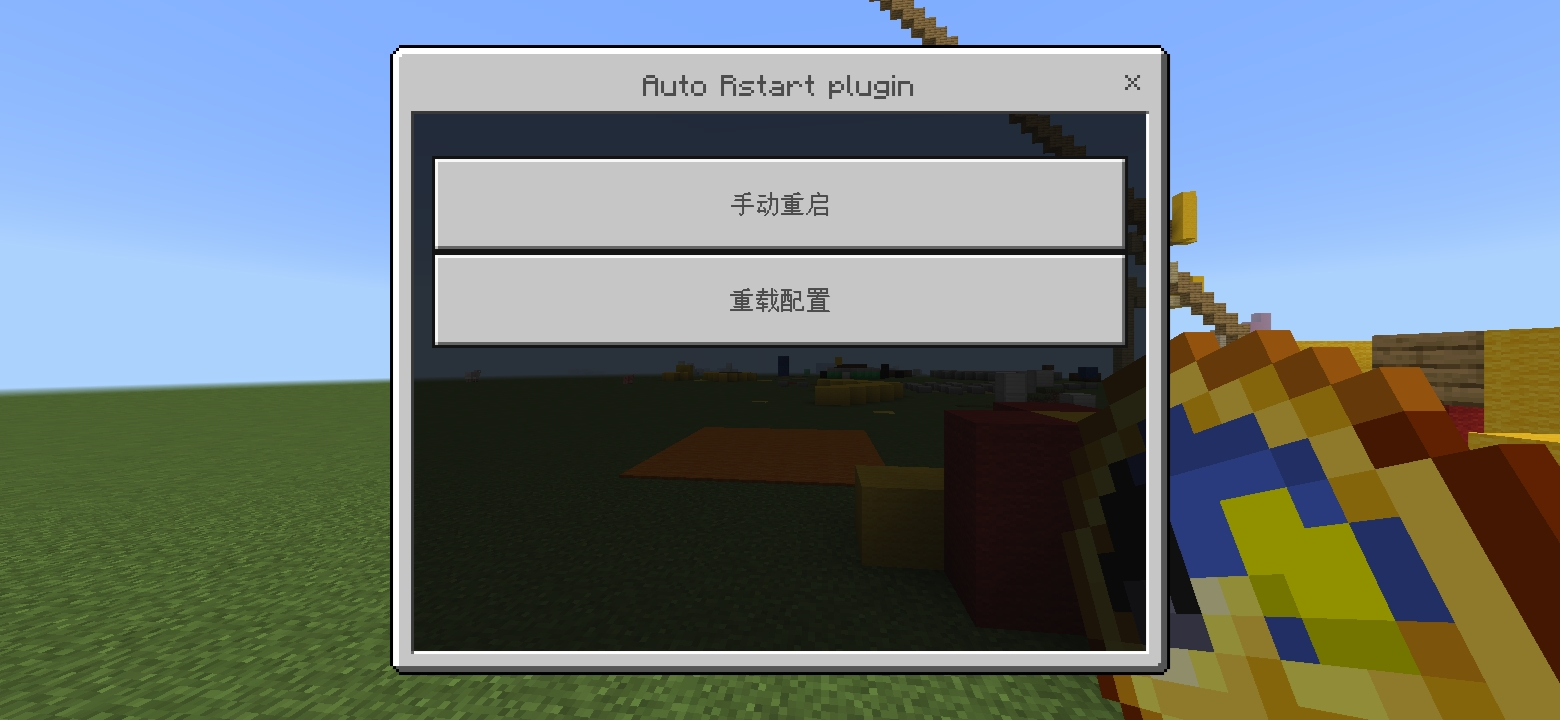
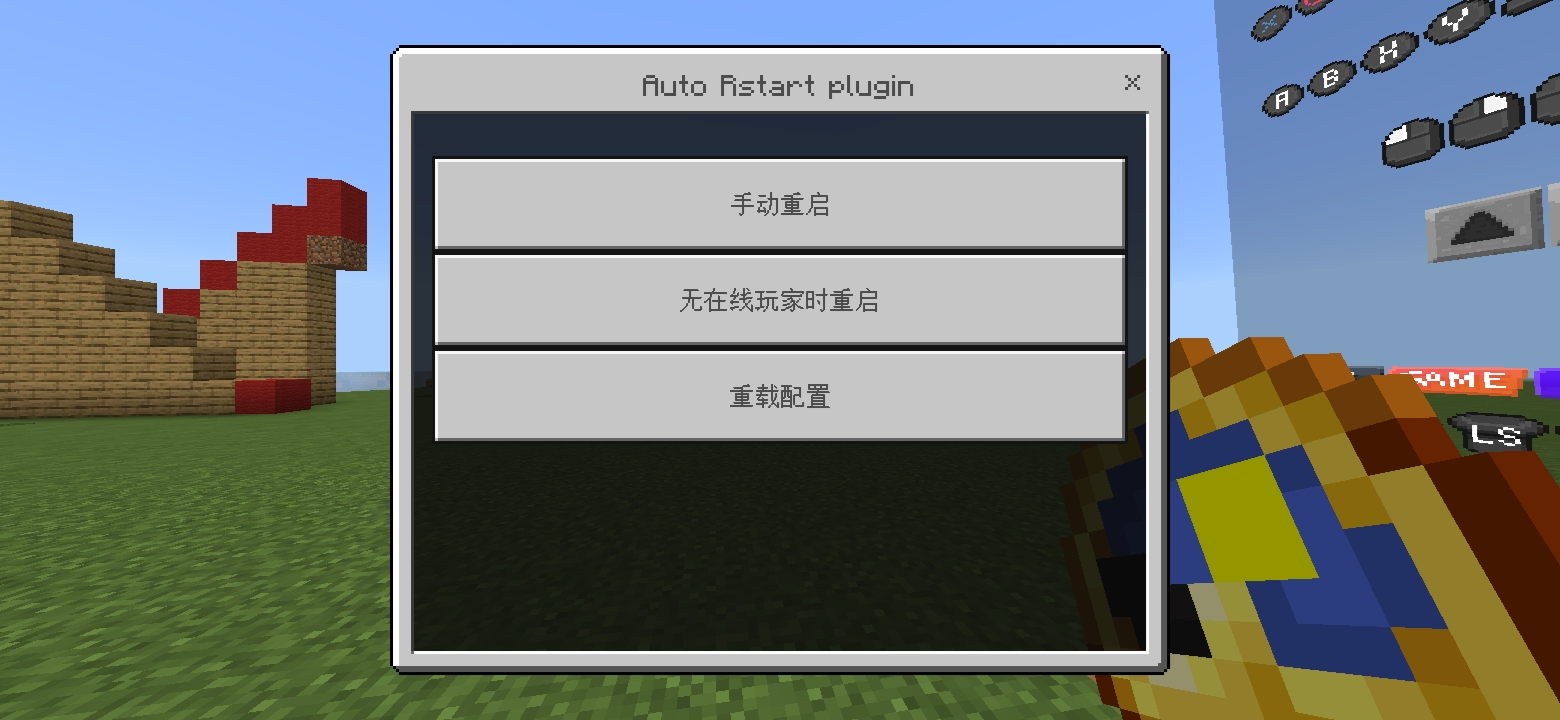
调整代码

diff --git a/src/main/java/cn/stevei5mc/autorestart/command/sub/RunRestartTask.java b/src/main/java/cn/stevei5mc/autorestart/command/sub/RunRestartTask.java
@@ -6,6 +6,7 @@ import cn.nukkit.command.data.CommandParamType;
 import cn.stevei5mc.autorestart.command.BaseSubCommand;
 import cn.nukkit.Player;
 import cn.stevei5mc.autorestart.Utils;
+import java.util.*;
 
 public class RunRestartTask extends BaseSubCommand {
 
@@ -30,14 +31,14 @@ public class RunRestartTask extends BaseSubCommand {
             switch (s) {
                 case "manual":
                     int i = Utils.getRestartTipTime();
-                    Utils.runRestartTask("seconds",i,2,20);
+                    Utils.runRestartTask(i,2);
                     main.getLogger().info((main.getLang().translateString("restart_task_restart", i, main.getLang().translateString("time_unit_seconds"))));
                     for (Player player : main.getServer().getOnlinePlayers().values()) {
                         player.sendMessage(main.getLang(player).translateString("restart_task_restart", i, main.getLang(player).translateString("time_unit_seconds")));
                     }
                     return true;
                 case "no-players":  
-                    Utils.runRestartTask(3,100);
+                    Utils.runRestartTask(3);
                     main.getLogger().info((main.getLang().translateString("restart_task_run",main.getLang().translateString("restart_task_type_no_player"))));
                     for (Player player : main.getServer().getOnlinePlayers().values()) {
                         player.sendMessage(main.getLang(player).translateString("restart_task_run",main.getLang(player).translateString("restart_task_type_no_player")));
@@ -54,7 +55,7 @@ public class RunRestartTask extends BaseSubCommand {
     @Override
     public CommandParameter[] getParameters() {
         return new CommandParameter[]{
-            new CommandParameter("manual|no-players", "task type"),
+            new CommandParameter("task type", "manual|no-players"),
         };
     }
 }

diff --git a/src/main/java/cn/stevei5mc/autorestart/Utils.java b/src/main/java/cn/stevei5mc/autorestart/Utils.java
@@ -113,22 +113,28 @@ public class Utils {
     /**
      * 运行重启任务
      * @param type 重启任务类型
-     * @param runTick 重启任务的运行时间(tick) 20tick=1s
     */
-    public static void runRestartTask(int type,int runTick) {
-        runRestartTask("",0,type,runTick);
+    public static void runRestartTask(int type) {
+        runRestartTask(0,type);
     }
 
     /**
      * 运行重启任务
-     * @param unit 重启任务的时间单位
      * @param restartTime 重启需要的时间
      * @param type 重启任务类型
-     * @param runTick 重启任务的运行时间(tick) 20tick=1s
     */
-    public static void runRestartTask(String unit,int restartTime,int type,int runTick) {
+    public static void runRestartTask(int restartTime,int type) {
         cancelTask();//不管定时重启任务在不在运行都取消一遍再运行手动的任务，以防出现一些奇怪的问题
-        TaskHandler taskHandler = main.getServer().getScheduler().scheduleRepeatingTask(main, new RestartTask(unit,restartTime), runTick, true);
+        int runTick = 20;
+        switch (type) {
+            case 3:
+                runTick = 100;
+                break;
+            default:
+                runTick = 20;
+                break;
+        }       
+        TaskHandler taskHandler = main.getServer().getScheduler().scheduleRepeatingTask(main, new RestartTask(type,restartTime), runTick, true);
         taskId = taskHandler.getTaskId();
         taskState = true;
         taskType = type;

diff --git a/src/main/java/cn/stevei5mc/autorestart/tasks/RestartTask.java b/src/main/java/cn/stevei5mc/autorestart/tasks/RestartTask.java
@@ -15,13 +15,17 @@ public class RestartTask extends Task {
      * @param unit 时间单位(默认为秒)
      * @param time1 时间范围
     */
-    public RestartTask(String unit,int time1) {
-        if (unit == "min") {
-            time2 = time1 * 60; // 将分钟转换为秒
-        } else if (unit == "seconds") {
-            time2 = time1;
-        } else {
-            time2 = 30;//如果重启任务的时间单位不是 min/seconds 就让服务器在30s候重启
+    public RestartTask(int type,int time1) {
+        switch (type) {
+            case 1:
+                time2 = time1 * 60; // 将分钟转换为秒
+                break;
+            case 2:
+                time2 = time1;
+                break;
+            default:
+                time2 = 30;//如果重启任务的时间单位不是 min/seconds 就让服务器在30s候重启
+                break;
         }
     }
 

diff --git a/src/main/java/cn/stevei5mc/autorestart/AutoRestartPlugin.java b/src/main/java/cn/stevei5mc/autorestart/AutoRestartPlugin.java
@@ -38,7 +38,7 @@ public class AutoRestartPlugin extends PluginBase {
             loadLanguage();
             this.getServer().getCommandMap().register("", new AutoRestartCommand());//注册命令
             int i = Utils.getRestartUseTime();
-            Utils.runRestartTask("min",i,1,20);
+            Utils.runRestartTask(i,1);
             Server.getInstance().getScheduler().scheduleDelayedTask(this, () -> {
                 getLogger().info(this.getLang().translateString("restart_task_restart", i, getLang().translateString("time_unit_minutes")));
                 getLogger().warning("§c警告! §c本插件为免费且开源的一款插件，如果你是付费获取到的那么你就被骗了");

diff --git a/README.md b/README.md
@@ -58,3 +58,4 @@ sound:
 |![1](docs/image/1.jpg)|![2](docs/image/2.jpg)|
 |-|-|
 |![3](docs/image/3.jpg)|![4](docs/image/4.jpg)|
+|![5](docs/image/5.jpg)|![6](docs/image/6.jpg)|
